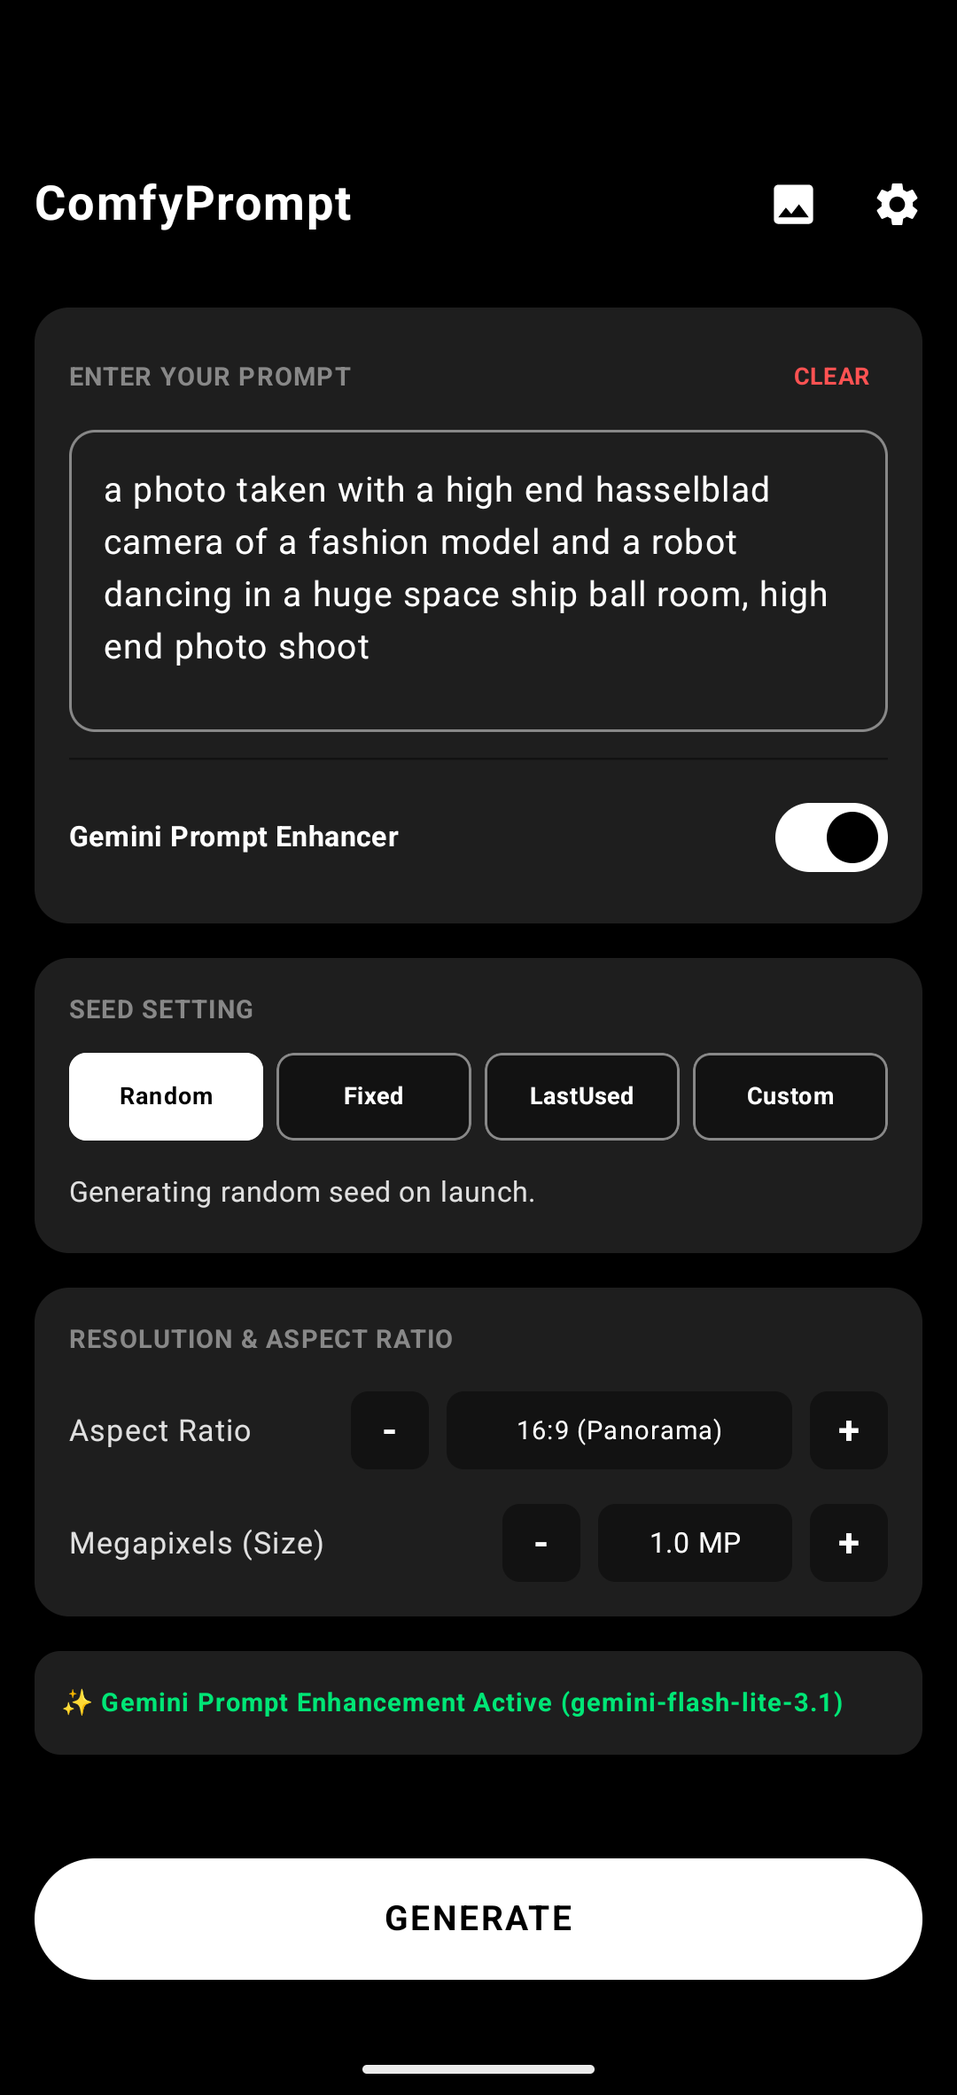
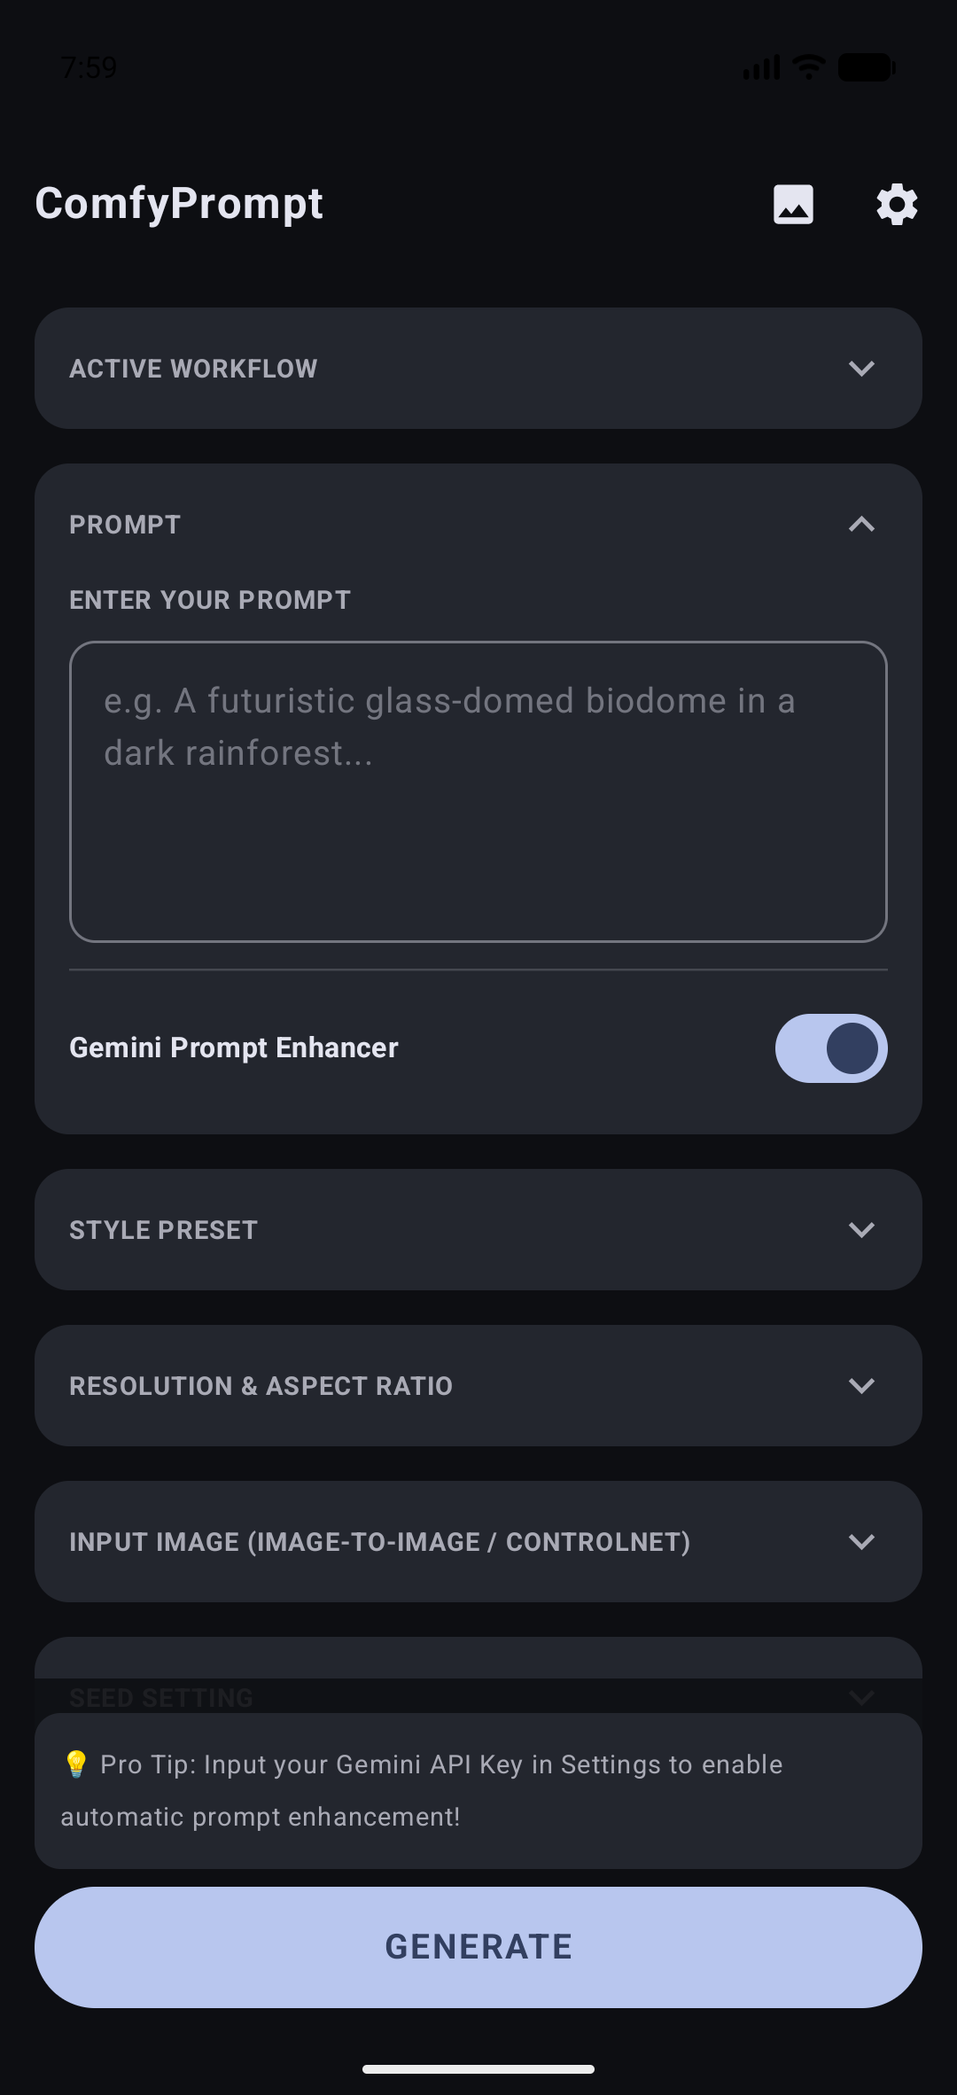
docs: rewrite README with new emulator screenshots and v1.2.6 feature coverage

diff --git a/comfyui-android-app/README.md b/comfyui-android-app/README.md
@@ -3,188 +3,122 @@
 [![Platform](https://img.shields.io/badge/Platform-Android-green.svg)](https://developer.android.com)
 [![Kotlin](https://img.shields.io/badge/Kotlin-2.x-purple.svg)](https://kotlinlang.org)
 [![Compose](https://img.shields.io/badge/Jetpack-Compose-blue.svg)](https://developer.android.com/jetpack/compose)
-[![Version](https://img.shields.io/badge/Version-1.2.2-orange.svg)](CHANGELOG.md)
+[![Version](https://img.shields.io/badge/Version-1.2.6-orange.svg)](CHANGELOG.md)
 [![License](https://img.shields.io/badge/License-MIT-blue.svg)](LICENSE)
 
-**ComfyUI Client** is a fully native Android application designed to interface with your ComfyUI server. 
+**ComfyUI Client** is a fully native Android app that gives you a clean, touch-friendly mobile interface for your [ComfyUI](https://github.com/comfyanonymous/ComfyUI) image generation server.
 
-Let's be completely honest: trying to use ComfyUI's dense, node-based desktop layout inside Chrome or Safari on a mobile screen is an exercise in pure frustration. Panning, zooming, and dragging spaghetti connection links on a 6-inch display is a recipe for accidental node mutations and lost patience. And nobody wants to spend hours manually converting every single custom workflow into a standalone app using ComfyUI's Node 2.0 app framework. 
+Using ComfyUI's node-based desktop UI on a phone screen is genuinely painful — panning spaghetti node graphs on a 6-inch display, accidentally mutating connections, squinting at tiny widgets. This app cuts through all of that. Enter your prompt, pick your settings, tap Generate. That's it.
 
-This client was born out of a simple, selfish need: **just let me prompt and go.** It hooks up your existing backend workflows and lets you run them natively on your phone or tablet with high-fidelity, touch-friendly mobile layouts. 
+---
 
-## 📱 App Showcase & Feature Tour
+## 📸 Screenshots
 
-### 🎨 Core Prompt & Connection Interface
-Explore the core generation environment, including standard aspect ratios, resolution modifiers, and secure local/cloud configurations:
-
-| 🏠 01. Main Prompter (Portrait) | ⚙ 02. Active Connections Setup | 📈 03. Active Run Progress |
+| 🏠 Main Prompter | ⚙ Settings — Host Config | 🤖 Settings — AI Provider |
 | :---: | :---: | :---: |
-| <img src="screenshots/01_main_screen_portrait.png" width="240" alt="Main Screen"/> | <img src="screenshots/02_settings_screen_portrait.png" width="240" alt="Connections Settings"/> | <img src="screenshots/03_progress_screen_portrait.png" width="240" alt="Realtime progress monitoring"/> |
-| Enter prompts, choose seeds, and customize outputs easily. | Secure local connection and Active AI Prompt Expander setup. | Real-time generation percentage and base/intermediate image views. |
+| <img src="screenshots/01_main_screen_portrait.png" width="220" alt="Main Screen"/> | <img src="screenshots/02_settings_screen_portrait.png" width="220" alt="Settings Host"/> | <img src="screenshots/03_settings_ai_config.png" width="220" alt="AI Config"/> |
+| Accordion UI with prompt input and Gemini enhancer toggle | Configure Local, RunPod, ComfyDeploy, or Fal.ai | Gemini/ChatGPT/Claude/Grok or local LLM |
 
----
-
-### 🧠 Multimodal Vision Refiner (Gemini 3.5 Flash)
-Tweak, refine, and visually context-align your generation prompts through fully in-RAM vision conversation:
-
-| 💬 04. Refiner Chat Intro | 📎 05. Multimodal Attachments & Suggestions |
-| :---: | :---: |
-| <img src="screenshots/04_vision_refiner_chat_intro.png" width="300" alt="Vision Chat Intro"/> | <img src="screenshots/05_vision_refiner_chat_suggestions.png" width="300" alt="Vision Tweak Suggestions"/> |
-| Transient Vision Assistant analyzes active output for context. | Upload reference context files, dictation support, and view prompt suggests. |
-
----
-
-### 🖼 Creations History & Detail Gallery
-Browse past generations, save locally, share natively, or instantly reload and refine prompts from history:
-
-| 🗃 06. Local Creations Grid | 📑 07. Details Popup Card |
-| :---: | :---: |
-| <img src="screenshots/06_creations_gallery_grid.png" width="300" alt="Gallery Grid"/> | <img src="screenshots/07_gallery_details_modal.png" width="300" alt="Gallery Detail sheet"/> |
-| OLED historical creation grids with cached high-performance cells. | Reload prompts, copy enhanced models, or trigger past vision refinement. |
-
----
-
-### 📖 Unfolded Foldable/Tablet Interface
-Enjoy premium large screen partitioning:
-
-| 🗺 09. OLED Side-by-Side Split View (Unfolded Tablet / Foldable) |
-| :---: |
-| <img src="screenshots/09_unfolded_tablet_split_view.png" width="600" alt="Tablet Side-by-Side view"/> |
-| Left pane holds prompter details and system action controls, right pane holds the active prompt vision refiner panel side-by-side. |
-
-> [!NOTE]
-> This application communicates directly with your self-hosted ComfyUI instance. No proprietary third-party servers are required!
+| 🎨 Style Presets | 📐 Resolution & Aspect Ratio | 🖼 Generation History |
+| :---: | :---: | :---: |
+| <img src="screenshots/05_style_preset_expanded.png" width="220" alt="Style Presets"/> | <img src="screenshots/06_resolution_aspect_ratio.png" width="220" alt="Aspect Ratio"/> | <img src="screenshots/04_gallery_screen.png" width="220" alt="Gallery"/> |
+| One-tap style chips: None, Cinematic, Anime, Photography… | Proportional aspect ratio icons with +/− megapixel controls | Browse, search, and reload past generations |
 
 ---
 
 ## ✨ Features
 
-### 🔌 Intelligent Core Connectivity
-*   **Direct-to-Host Stream**: Integrates seamlessly with your server's REST API and WebSockets for instantaneous response.
-*   **Real-time Event Subscriptions**: Subscribes directly to ComfyUI execution events to show actual progress bars and detailed status updates.
-*   **Zero Credentials Hardcoded**: All keys and credentials (such as Gemini, Grok, ChatGPT, or Claude prompt-enhancing keys) are stored securely on-device using local encrypted storage and are never committed to code.
-*   **Background-Resilient Generation**: Generation state is owned by a `GenerationRepository` running on a `SupervisorJob` scope, so backgrounding or rotating the device does not drop the active WebSocket connection or lose progress.
+### 🎛 Accordion-Based Prompt UI
+Every setting lives in a collapsible card — Active Workflow, Prompt, Style Preset, Resolution & Aspect Ratio, Input Image (img2img/ControlNet), Workflow Stages, and Seed Setting. The GENERATE button stays pinned to the bottom at all times.
 
-### 🧠 Dynamic UI-to-API Workflow Engine
-*   **Universal Graph Conversion**: Automatically transforms ComfyUI "UI-format" JSON workflows (nodes + links) into the optimized "API-format" structure required for direct server execution.
-*   **Positional Input Alignment**: Dynamically parses the host server's `/object_info` definitions to correctly map connection slots vs widget inputs for custom nodes, eliminating index-shifting and broken parameter assignments.
-*   **Dangling Node Recovery & Fallback**: Automatically cleans up links pointing to unsupported custom UI-only nodes while safely mapping default properties (like prompts or values) from `/object_info` definitions, ensuring that missing nodes do not break generation.
-*   **Natively Calculated Resolution Injection**: Dynamically intercepts latent/image generators and injects native, aspect-ratio-friendly resolutions calculated directly on your device.
-*   **`WorkflowTransformer`**: Prompt injection is handled by a dedicated transformer that recursively walks the graph to find `CLIPTextEncode` and `PrimitiveNode` targets — no more brittle index assumptions.
+### 🧠 AI Prompt Enhancement
+Toggle Gemini, ChatGPT, Claude, Grok, or any local OpenAI-compatible LLM (Ollama, LM Studio, llama.cpp) to automatically expand a simple prompt into a rich visual description before sending it to ComfyUI. The enhanced prompt is shown on the progress screen with a one-tap copy to clipboard and a full-screen immersive reader.
 
-### 🖼 Seamless Mobile UX
-*   **Prompt Enhancer Integration**: Features built-in AI adapters (supporting Gemini, ChatGPT, Claude, Grok, and local/custom OpenAI-compatible endpoints) to expand simple input prompts into beautiful visual styles.
-*   **Collapsible Enhanced-Prompt Card**: On the Progress Screen, the AI-enhanced prompt starts collapsed to a 3-line tappable preview. Tap to smoothly expand the full text and tap again to collapse — keeping generation progress always visible without scrolling.
-*   **Vision-Powered Refiner Chat**: Transient, fully in-RAM vision dialog utilizing background Gemini Flash. Upload gallery reference photos, dictate prompts with local microphone input, and review side-by-side prompt suggestions.
-*   **Interactive Creations Refinery**: Click any previous output in the Gallery to instantly reload or refine the prompt with vision chat overlays.
-*   **Granular Multi-Job Queue**: Floating Queue FAB showing active generation counts with detailed bottom sheet split action controls: "Clear Queue" (clears pending jobs, leaving the active one intact) and "Stop All" (aborts current generation and empties the queue).
-*   **Dynamic Gallery & Viewer**: Stores generation history locally with high-performance caching. Tap any item to view in full-screen, or instantly invoke native Android Share and Download operations.
-*   **Settings Suite**: Easily configure host URL, megapixels, desired aspect ratios, and model specifications.
+### 🗂 Workflow Stage Toggles
+Load any ComfyUI workflow and individually toggle its node groups (e.g., skip upscaling, bypass face restoration) directly from the app. A **master ALL STAGES** switch at the top lets you flip everything at once. Toggle states are remembered between generations.
 
-### 🌐 Smart Server Wake (TRIGGERcmd)
-*   **Auto-Wake on Connection Failure**: If the local ComfyUI host is unreachable, the app can optionally fire a TRIGGERcmd cloud relay command to power on your server, then poll until it's back online before proceeding — no manual intervention required.
+### 🔌 Flexible Host Connections
+- **Local** — direct IP/port to your home ComfyUI instance
+- **ComfyDeploy** — cloud-hosted ComfyUI via ComfyDeploy
+- **RunPod Serverless** — GPU serverless endpoints
+- **Fal.ai** — image generation via Fal.ai API
+
+All API keys and credentials are stored on-device using **AES-256 GCM** encrypted storage (`EncryptedSharedPreferences`) — never written in plaintext, never sent anywhere except the host you configure.
+
+### 📡 Real-Time WebSocket Progress
+Subscribes directly to ComfyUI's execution event stream. A visual pipeline stepper shows exactly where you are: **Load Model → Encode → Sampler → Decode → Save**. Progress survives backgrounding and screen rotation — generation keeps running even if you switch apps.
+
+### 🖼 Generation History Gallery
+Every successful generation is stored locally. Search by prompt text, tap to view full-screen, copy the enhanced prompt, share natively, or instantly reload a past prompt to regenerate or refine it.
+
+### 🌐 TRIGGERcmd Server Wake
+If your local ComfyUI PC is off or asleep, the app can fire a [TRIGGERcmd](https://triggercmd.com) cloud relay command to wake it up, then poll until it comes online — no manual intervention needed.
+
+### 🤖 Vision Refiner (Gemini Multimodal)
+Attach reference images and have a back-and-forth Gemini conversation to refine your prompt before generating. Dictation support included.
 
 ---
 
-## 🛠 Architecture & Dependencies
+## 🛠 Tech Stack
 
-This is a modern Android codebase built with the following industry-standard technologies:
-
-*   **Jetpack Compose**: For a fully declarative, high-performance visual experience.
-*   **Navigation 3**: To handle seamless Compose screen transitions.
-*   **OkHttp (`v4.12.0`)**: Underpins all REST communication and handles stable, persistent WebSocket connections.
-*   **Gson (`v2.14.0`)**: Used for parsing highly structured and nested dynamic ComfyUI graphs.
-*   **Coil (`v2.7.0`)**: Premium asynchronous image loading and caching optimized for dynamic mobile grids.
+| Layer | Technology |
+|---|---|
+| UI | Jetpack Compose + Material 3 (dynamic Monet theming) |
+| Navigation | Navigation 3 |
+| Networking | OkHttp 4 (REST + persistent WebSockets) |
+| JSON | Gson |
+| Image Loading | Coil |
+| Secure Storage | EncryptedSharedPreferences (AES-256 GCM) |
+| Language | Kotlin 2.x |
+| Min SDK | API 24 (Android 7.0) |
 
 ---
 
 ## 🚀 Getting Started
 
 ### Prerequisites
-1.  **Install the API Converter Extension**:
-    To run raw custom workflows in "UI-format", your ComfyUI server must have the [Workflow to API Converter Endpoint](https://github.com/SethRobinson/comfyui-api-endpoint) extension installed.
-    *   **How it Works**: 
-        - This extension exposes a custom API endpoint (`POST /workflow/convert`) directly on your ComfyUI host server.
-        - When the Android app imports a raw, full-fledged ComfyUI UI-format JSON (nodes + links), it POSTs this graph to `/workflow/convert`.
-        - The backend extension processes the graph using ComfyUI's native internal execution engine to resolve all connections, inputs, and widgets, translating it into the strict, clean "API-format" execution payload (`prompt` JSON) expected by the ComfyUI server queue.
-        - During conversion, the engine automatically respects and bridges **Muted** (`mode: 2`) and **Bypassed** (`mode: 4`) nodes, ensuring your workflow behaves exactly on mobile as it does in your browser.
-    *   **Installation**:
-        - Open ComfyUI, open the **ComfyUI Manager**, and search for `"Workflow to API Converter Endpoint"`.
-        - Click **Install** and restart your ComfyUI server.
-    *   *Note*: This extension is **not** required if you import workflows pre-saved in API-format (via Developer Mode in ComfyUI Web UI) or use the application's built-in default workflow.
-2.  **Enable Dev Mode in ComfyUI** (Optional): If you prefer to manually import pre-converted API-format workflows directly, enable Developer Mode in your ComfyUI web interface settings: open the settings gear icon, and check **"Enable Dev mode"**. Then click **"Save (API format)"** to download the converted JSON.
-3.  Ensure your ComfyUI server is running and accessible over your local network or via a public tunnel (e.g., ngrok).
-4.  For testing on the Android Emulator, the default connection is configured to loop back to the emulator host at `http://10.0.2.2:8188`.
+1. A running **ComfyUI server** accessible over your local network or via a public tunnel.
+2. *(Optional)* The [Workflow to API Converter](https://github.com/SethRobinson/comfyui-api-endpoint) ComfyUI extension, if you want to import raw UI-format workflow JSON files directly.
+3. A Gemini API key from [Google AI Studio](https://aistudio.google.com) if you want AI prompt enhancement.
 
-### 🤖 Local / Custom Prompt Expander Setup
-You can use a local or custom OpenAI-compatible API provider (e.g., LM Studio, Ollama, Llama.cpp) to expand your prompts.
-1. Run your local LLM server on your host machine.
-2. In the app's **Settings**, set **Active AI Provider** to `Local / Custom`.
-3. Enter the **Local LLM Base URL**.
-   * When using the Android Emulator, connect to your host machine's local server using the gateway IP `10.0.2.2`. For example, LM Studio running on port 1234 would be `http://10.0.2.2:1234/v1`.
-4. Click **Fetch Models** to dynamically query the server's `/models` endpoint.
-5. Select your desired model from the dropdown.
+### Install the APK
+Grab the latest debug APK from the [Releases](https://github.com/williamcboehmjr/comfyui-client-android/releases) page and sideload it onto your Android device.
 
-### Building from Source
-You can compile and run the project using Android Studio or directly via the terminal:
+### Build from Source
 
 ```bash
-# Clean and assemble the debug APK
+# Requires Android Studio's bundled JDK
 export JAVA_HOME="/Applications/Android Studio.app/Contents/jbr/Contents/Home"
+
+# Assemble debug APK
 ./gradlew assembleDebug
 
-# Install to a connected device or emulator
+# Install directly to a connected device or emulator
 ./gradlew installDebug
 ```
 
----
-
-## 🔮 Feature Roadmap & Milestones
-
-We are molding this client into the ultimate mobile generative experience. Here is what we have accomplished and what is coming next.
-
-See the full [CHANGELOG.md](CHANGELOG.md) for detailed version history.
-
-### 🚀 Recently Completed Features (v1.2.0)
-*   **Modular Screen Architecture**: Refactored from a monolithic `Screens.kt` into individual focused screen files for much better maintainability.
-*   **Background-Resilient Generation**: `GenerationRepository` owns generation state so backgrounding or rotating the device no longer drops the WebSocket stream.
-*   **Collapsible AI Prompt Card**: On the Progress Screen, the enhanced prompt collapses to a tappable 3-line preview — tap to expand or collapse with smooth animation.
-*   **TRIGGERcmd Server Wake**: Auto-wake your ComfyUI PC via TRIGGERcmd when it's unreachable, with polling until it's back online.
-*   **Fixed Double-Percentage Notifications** (`35% 35%` → `35%`): Sanitized all progress-string update paths.
-*   **Cloud Host Integrations**: Orchestration with serverless and GPU providers (including **RunPod Serverless**, **Fal.ai**, and **ComfyDeploy**) with smart local fallback logic.
-*   **Active Job Queue Management**: Stop, abort, and clear controls via the Floating Queue FAB bottom sheets (Clear Queue vs. Stop All).
-*   **Cryptographically Secure API Storage**: All active model keys stored using Android's native `EncryptedSharedPreferences` (AES-256 GCM).
-*   **Universal Graph-to-API Engine**: Position-aligned node widget mapping and dangling link recovery.
-
-### 🔮 Planned Next Steps
-*   **Toggle Groups**: Support for toggling LiteGraph groups directly from the Android app UI to enable/disable entire workflow segments.
-*   **Multi-Platform Support (iOS)**: If there is sufficient interest and backing, we plan to release a premium paid version on both Google Play Store and Apple App Store to support continued development.
+> **Emulator note**: The default local server address is `http://10.0.2.2:8188`, which routes to your host machine from the Android emulator.
 
 ---
 
-## 🤝 The "AI Slop" Confession & Co-Creation Story
+## 🤖 How It Was Built
 
-Let's address the giant robot in the room: yes, this app is fully vibe-coded. We know the internet is currently drowning in "AI slop" wrappers, half-baked templates, and generic copy-paste projects. But we promise you, this isn't one of those cash-grabs. 
+This app is fully vibe-coded. Not by a professional developer — by someone who was just tired of using ComfyUI on their phone and decided to do something about it.
 
-First of all, **this app is not for sale.** It was created by someone who is decidedly *not* a professional developer, but who was simply tired of squinting at a tiny phone screen trying to connect virtual widgets in ComfyUI's web interface. 
+The human provided the product direction, UI specs, feature ideas, and relentless quality checks. **[Antigravity](https://deepmind.google)** — Google DeepMind's agentic AI coding assistant — handled all the Kotlin, Compose, WebSocket plumbing, and encrypted storage implementation.
 
-To solve this, the creator teamed up with **Antigravity**, a powerful agentic AI coding assistant developed by Google DeepMind. Together, they went full "mad scientist" mode, using **Gemini 3.5 Flash** on its highest settings to hammer out a real, native Android app. 
-
-While the human provided the architectural specifications, the aesthetic direction, and the relentless quality checks, Antigravity handled the heavy lifting under the hood, compiling Kotlin code, setting up WebSocket listeners, and securing encrypted preference managers. 
-
-So yes, it is an AI-assisted build. But it's an AI-assisted build driven by pure, unfiltered laziness and a desire to make ComfyUI actually usable on a couch. And we think that is a beautiful thing.
+Is it AI slop? No. Is it AI-assisted? Absolutely. But it's AI-assisted by genuine frustration with a real problem, and that makes all the difference.
 
 ---
 
-## 🔒 Security, Keys, and Private Context
+## 🔒 Security
 
-We hold security and private data context in the highest regard. To ensure complete safety:
-*   **Encrypted Storage**: All sensitive API keys (e.g., Gemini, ChatGPT, Claude, Grok, or local server tokens) are stored locally using Android's native `EncryptedSharedPreferences` (AES-256 GCM encryption) inside the private app sandbox. They are never written in plaintext and are never exposed to debug logs.
-*   **No Third-Party Telemetry**: The application contains no analytics packages, usage tracking, or external reporting channels. All ComfyUI API calls and WebSocket connections occur directly between your mobile device and your self-hosted host server.
-*   **Zero-Exposure Sanitization**: The source code and repository structure have been thoroughly audited and sanitized. Strict `.gitignore` rules prevent private keys, build scripts, local properties, and compiler caches from ever being pushed to version control, ensuring no personal credentials or environment details are exposed.
+- API keys (Gemini, ChatGPT, Claude, Grok, etc.) are stored using Android's `EncryptedSharedPreferences` with AES-256 GCM encryption inside the private app sandbox.
+- No analytics, no telemetry, no third-party tracking — ever.
+- All ComfyUI API calls go directly from your device to your server, nowhere else.
 
 ---
 
 ## 📄 License
 
-This project is licensed under the MIT License. See [LICENSE](LICENSE) for details.
+MIT License — see [LICENSE](LICENSE) for details.
